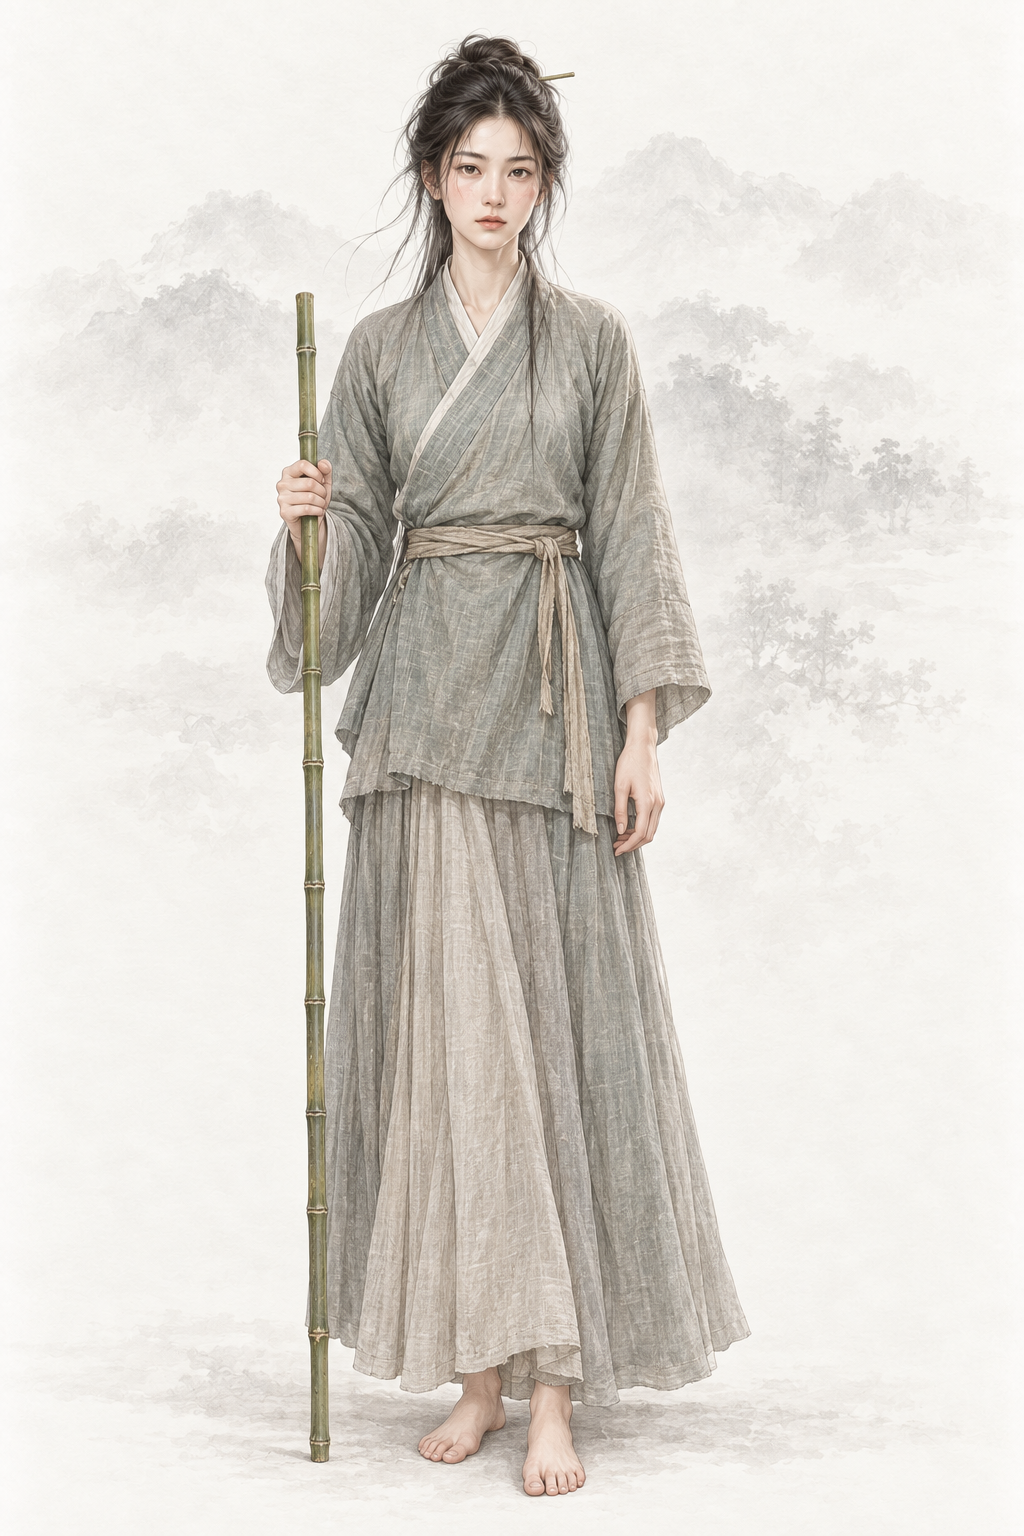
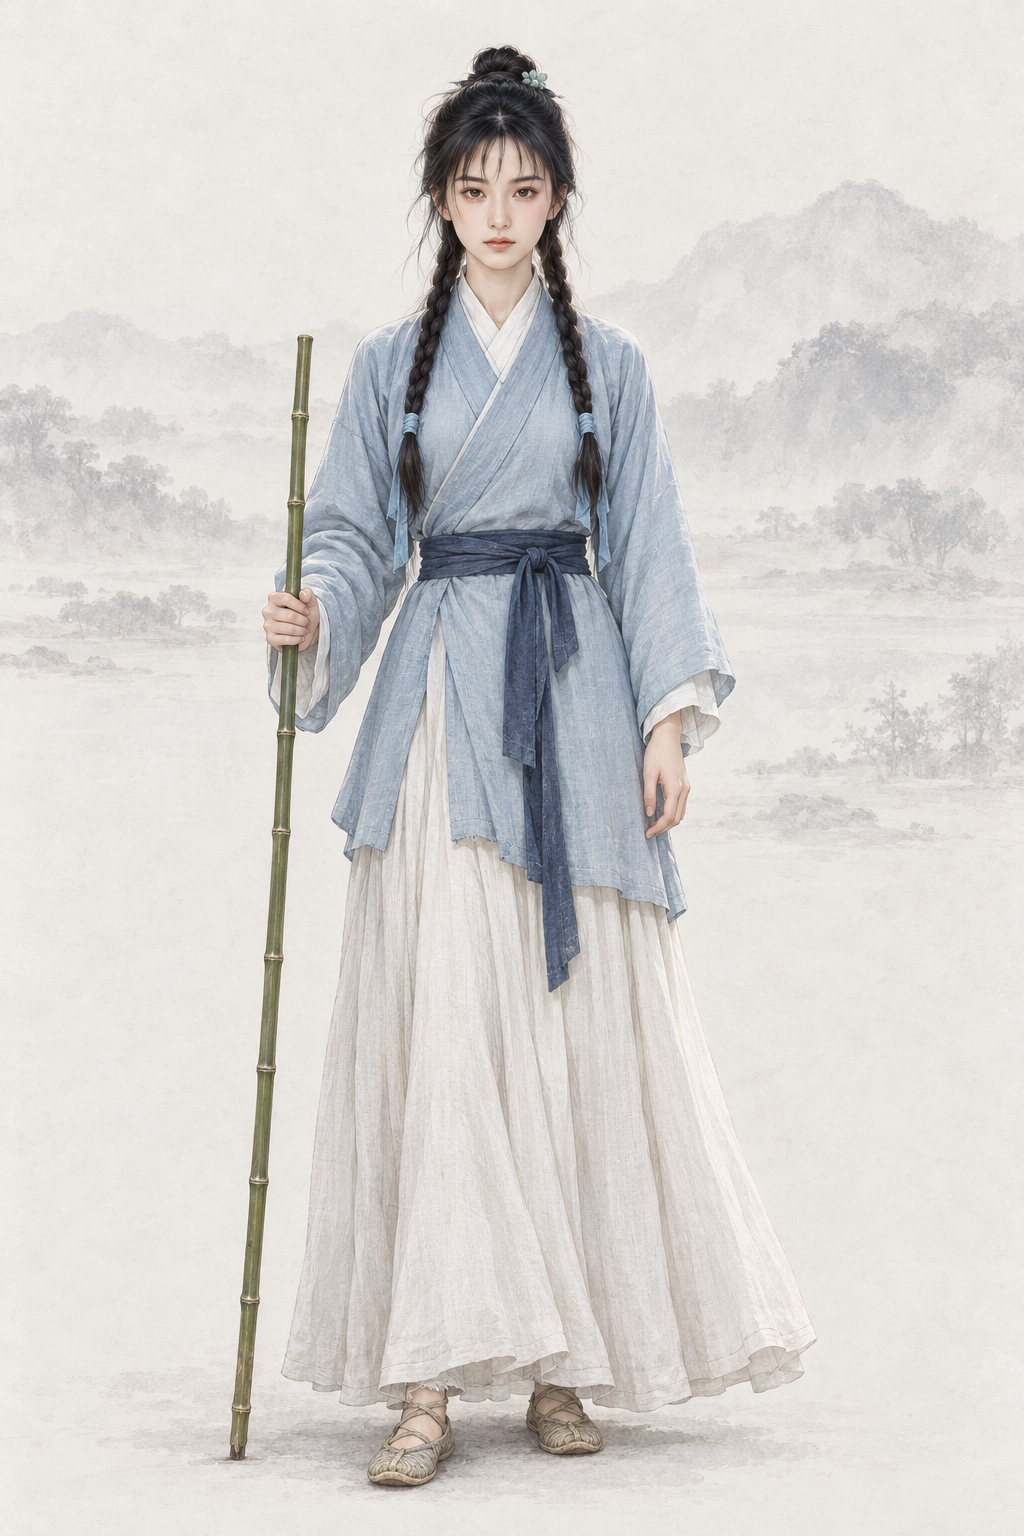
assets(character): por_npc_aqing__ch00_youth_base 阿青（codex · AR-32 1986 亚视《越女剑》 剧照 + 基线）
上传顺序：第 1–2 张为 1986 亚视《越女剑》阿青剧照（aqing_1986_lisaifeng_sina1.jpg、aqing_1986_lisaifeng_sina2.jpg），最后两张为同性别基线；提示词写回、frontmatter 加 classic_ref。

diff --git a/assets/default/prompts/characters/ch00-yuenv/npc_aqing.md b/assets/default/prompts/characters/ch00-yuenv/npc_aqing.md
@@ -11,14 +11,44 @@ manifest: assets/default/character/female/ch00/manifest.yaml
 references: []
 status: new
 redo_reason: "序章核心人物（演示越女剑、按 AR-26 传主角《长生诀》第一层）尚无立绘与提示词，按原著与禁止幼态补出"
-reference_upload:
-- assets/default/baseline/character/female/ref_npc_wangyuyan__ch01_base01.png
 codex_prompt_rev: 2026-10-02
+reference_upload:
+- .agents/coord/imagegen-reference/identity-20261002/yuenv/aqing_1986_lisaifeng_sina1.jpg
+- .agents/coord/imagegen-reference/identity-20261002/yuenv/aqing_1986_lisaifeng_sina2.jpg
+- assets/default/baseline/character/female/ref_npc_wangyuyan__ch01_base01.png
+- assets/default/baseline/character/female/ref_npc_xiaolongnv__ch03_base01.png
+classic_ref:
+  version: 1986 亚视《越女剑》
+  stills:
+  - .agents/coord/imagegen-reference/identity-20261002/yuenv/aqing_1986_lisaifeng_sina1.jpg
+  - .agents/coord/imagegen-reference/identity-20261002/yuenv/aqing_1986_lisaifeng_sina2.jpg
 ---
 
 # 阿青 · 基础立绘（2026-10-02 新建）
 
 ## Gemini 提示词
+
+> 2026-10-02 AR-32 重出（8 号出图员，codex exec · image_gen）：主要角色参考经典造型加项目基线生成。上传顺序：第 1–2 张为 1986 亚视《越女剑》阿青剧照（aqing_1986_lisaifeng_sina1.jpg、aqing_1986_lisaifeng_sina2.jpg），最后两张为同性别画风基线（缩小版 JPEG）。参考图只借造型、气质与面部特征，画面按项目画风重绘、不复制照片或像素图。上一版保留在下一节作历史。
+
+```text
+生成一张 2:3 竖幅全身人物立绘：单人、单一视角、完整全身——头顶、双手、双脚和手中器物的两端都在画面内，四周留出自然空白；人物站姿自然，身体基本朝向正面，头部端正（不歪头、不仰不俯），镜头平视。
+【参考图】第 1–2 张参考图是该角色经典影视造型的剧照：借鉴其发型、服饰、配色、标志道具、气质和面部特征，让人一眼认出是这个角色；但必须重新绘制成项目画风，不要照片质感，不要照搬剧照的构图、光影、背景和姿势，也不要做成照片修图。最后两张是本项目画风基线：画风、用色、光线、质感和暖浅灰纸底加淡水墨背景以它们为准。
+【剧照借鉴要点】取剧照里的发型（头顶小髻、两条长辫垂在胸前、发间小珠花）、浅蓝配月白的衣色、清丽澄澈的五官与神情；衣服按下文改成春秋越地的粗布衣裙，不照搬戏服的花边和头饰的繁复样式。
+【画风】写实手绘古风人物插画，与本项目写实武侠角色立绘同一画风，像功力深厚的画师用细腻笔触画出的真实人物。手绘插画质感，不是 CG 渲染：不要过度光滑的皮肤、完美对称的五官、塑料高光、过度锐利的发丝；保留自然的笔触和细微不完美。皮肤有真实质感——细小毛孔、细纹、晒痕和自然的左右不对称，不磨皮、不油亮；头发是一缕缕自然的发丝和少量碎发；布料看得出经纬纹理、厚薄和自然垂坠的褶皱，带穿用过的轻微旧化，但完整不破烂；整体设色低饱和、沉稳；柔和的自然光从左上方照来，明暗过渡自然，不打舞台光、轮廓光或美颜柔光。不是照片，不是三维渲染，不是动漫或游戏 CG，也不是油画（没有厚涂笔触和画布纹理）。
+【背景】不透明的暖浅灰色纸底，只在远处有极淡的水墨远山和薄雾，大面积留白；人物与背景明暗分明、轮廓边缘干净完整（后续要自动抠图），水墨和纸纹只在背景里，不侵入人物和衣服；脚下只有很淡的一点接触阴影。
+【人物】阿青，《越女剑》的牧羊女：春秋末越国山野里长大，与白猿嬉戏中练成神妙剑术，只用一根竹棒便能击败吴国剑士；在本作序章里为主角演示越女剑，并传授《长生诀》第一层。
+【年龄与体态】按本作规定画成约二十二岁的成年女子：身材苗条修长、四肢纤细却有山野里跑惯的轻捷，成年女性的骨相与身材比例（约七头身），胸腰臀是成年人的曲线（衣着端庄、不性感化）。
+【经典造型】经典港剧里那位越女：两条乌黑长辫垂在胸前、额前薄刘海、发间一只小小的青色珠花，一身浅蓝与月白相间的粗布衣裙，手持一根青竹棒；清丽、澄澈，天真里带着一股不自觉的锋利。
+【面容】清秀修长的瓜子脸，颧骨和下颌线清楚，是成年女子的骨相（不要圆脸、婴儿肥）；眉毛细长自然；一双黑亮的眼睛（自然大小、不要过大），睫毛长而浓，眼神澄澈、直率，天真里带着一股成年人的沉静；鼻梁挺直；嘴唇线条清楚、唇色偏淡；皮肤白皙，两颊和鼻梁有一点山风日晒的淡红；不施脂粉。清丽灵动、成熟的美丽女子，不是少女。
+【发式】乌黑长发在头顶挽一个小髻，其余编成两条长辫垂在胸前，辫梢用浅蓝布条扎住；额前只有几缕稀疏的短发、露出光洁的额头；发间别一只小小的青色珠花。
+【服饰】春秋越地的粗布衣裙：浅蓝色粗葛布交领短上衣（右衽，左襟压右襟，衣长过臀），白色内领；月白色及踝麻布长裙；腰系深蓝色布带；脚穿草鞋。衣料粗朴但干净完整，没有珠翠首饰。
+【道具】右手轻握一根细长的青竹棒（约到她肩头高），竹节清楚，棒梢轻点地面——这是她施展越女剑的「剑」。不拿青铜剑。
+【姿态与神情】身体基本正面，自然站立，左手垂在身侧；神情平静、澄澈，目光直视前方。
+【不要】画面里不要任何文字、题款、印章、签名、水印、边框、分格或多视图；不要第二个人；不要幼态（童颜、娃娃脸、婴儿肥、儿童或少年身材、大头小身）；不要塑料感皮肤、磨皮美颜、网红脸（尖下巴大眼高鼻的模板脸）、过度对称、浓妆、偶像式打光、蜡像感；不要照片质感，不要像剧照照片、照片修图或拼贴，不要照搬剧照的背景、光影、构图和姿势；不要三维渲染或动漫大眼；不要歪头、斜镜头；不要多指、缺指（设定的伤残除外）、手与器物粘连或悬空；衣襟必须右衽（穿着者的左襟压在右襟上），不要左衽（设定为少数民族服制的除外），不要水平镜像；不要现代物品、发光特效、法阵或能量光。不要羊群或白猿入画；不要青铜剑、铠甲或宫装；不要浓妆、珠翠、披帛飘带；不要汉以后的襦裙或宋明衣饰；不要少女或儿童身材；不要刘海遮住眼睛。
+【画风基线】随提示词上传的参考图里，最后两张是本项目的立绘画风基线：只参考它们的画风、用色、光线、质感和暖浅灰纸底加淡水墨的背景处理，整体画风必须与它们一致——精细写实的数字手绘插画，不是油画，不要厚涂笔触和画布纹理。基线图只取画风，不取长相：不要照搬基线图里人物的长相、年龄、发型、服饰和姿势。
+```
+
+## AR-31 文字版 Gemini 提示词（2026-10-02 凌晨；AR-32 重出之前，历史，不再用于出图）
 
 > 2026-10-02 AR-31 改写（1 号出图员，codex exec · image_gen 出图）：重要人物借鉴经典影视造型，只写成文字——不写演员名、不上传剧照、原创面孔；主角和美人画得好看，去 AI 味，禁止幼态。出图时上传两张同性别基线立绘作画风参考（放在最后）。审核组原稿保留在下一节作历史。
 
